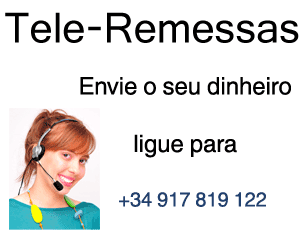
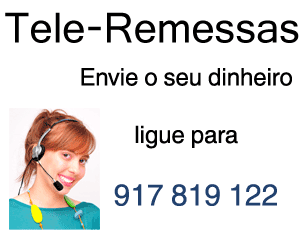
'alterações para espanha'

diff --git a/etc/css/css.css b/etc/css/css.css
@@ -759,3 +759,8 @@ a:hover{
     width: 1000px;
     background-color: white;
 }
+.vencedor{
+    font-size: 0.8em;
+    color: #4870B7;
+    margin: 0.5em 0em;
+}

diff --git a/servicos.php b/servicos.php
@@ -3,4 +3,4 @@
 require_once('common/common.php');
 
 $smarty->assign('pagina','servicos');
-$view->display();
+$view->display($language);
